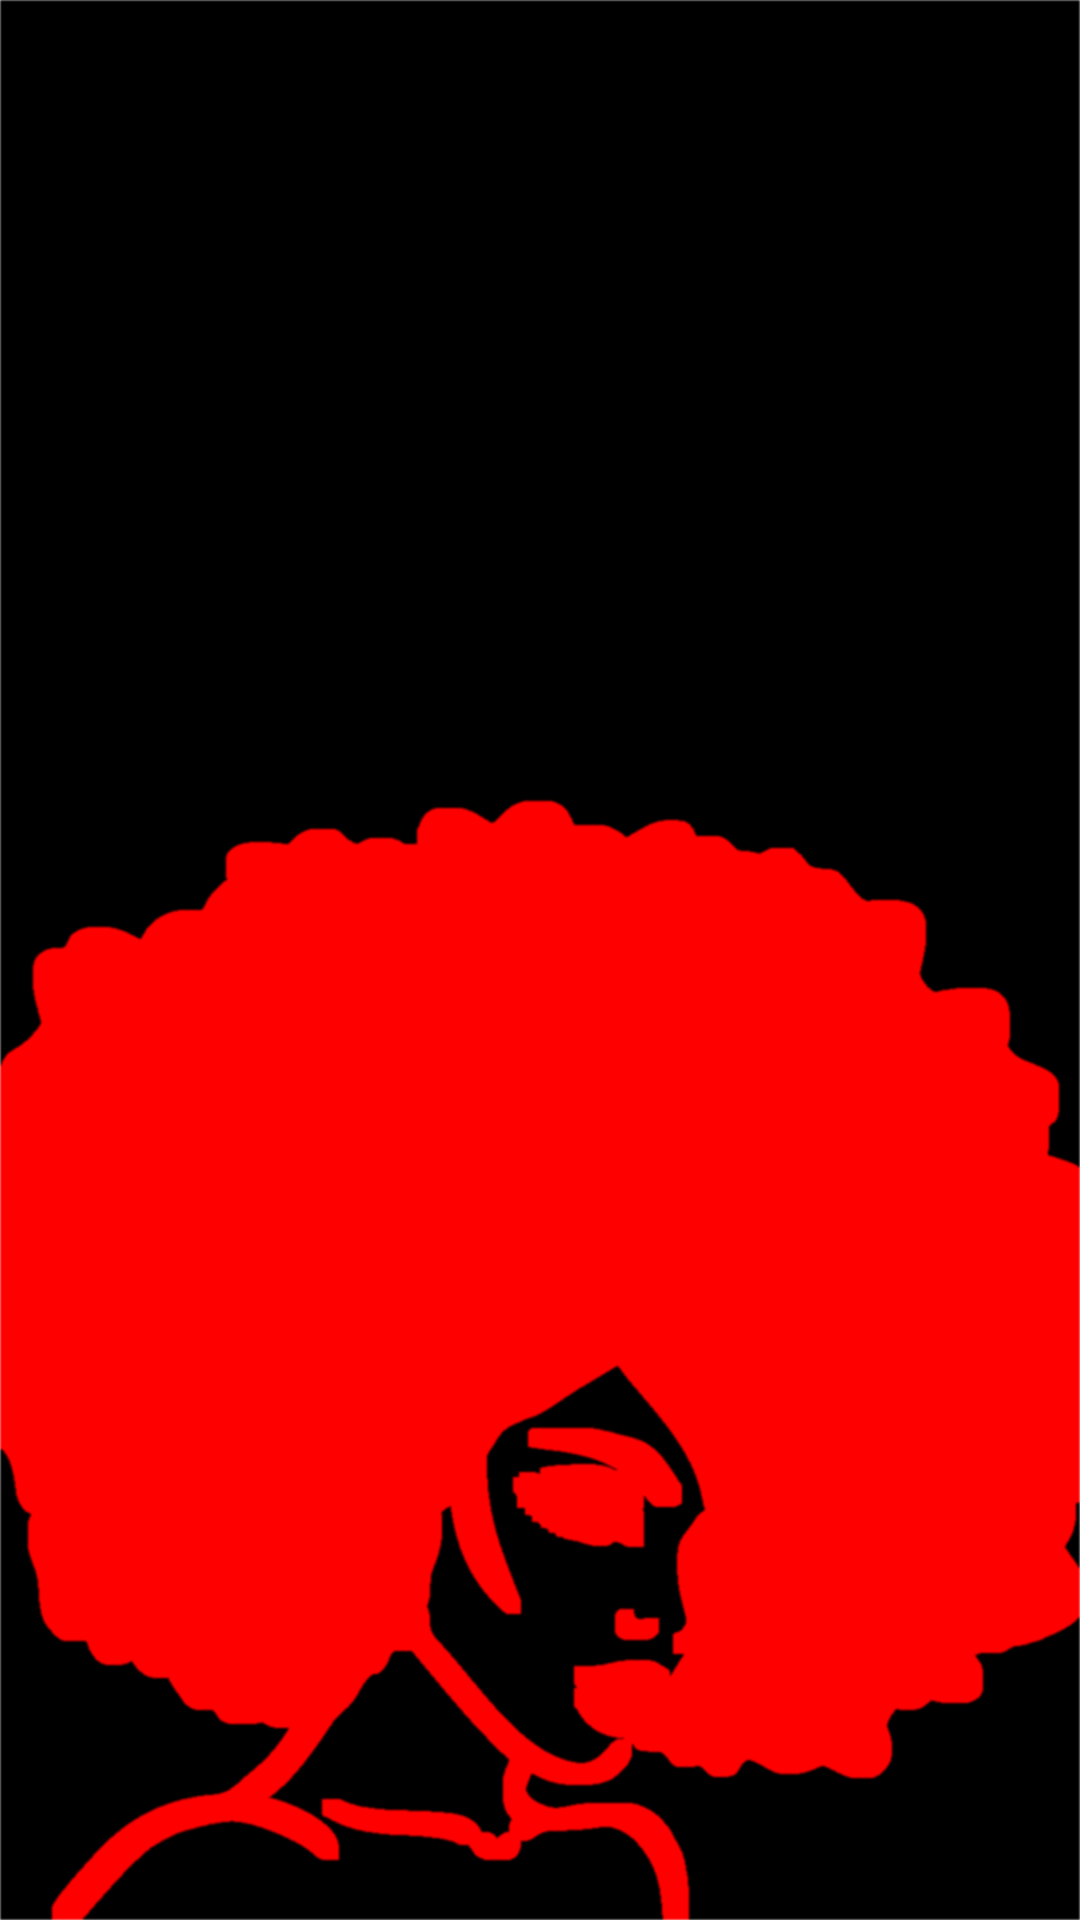
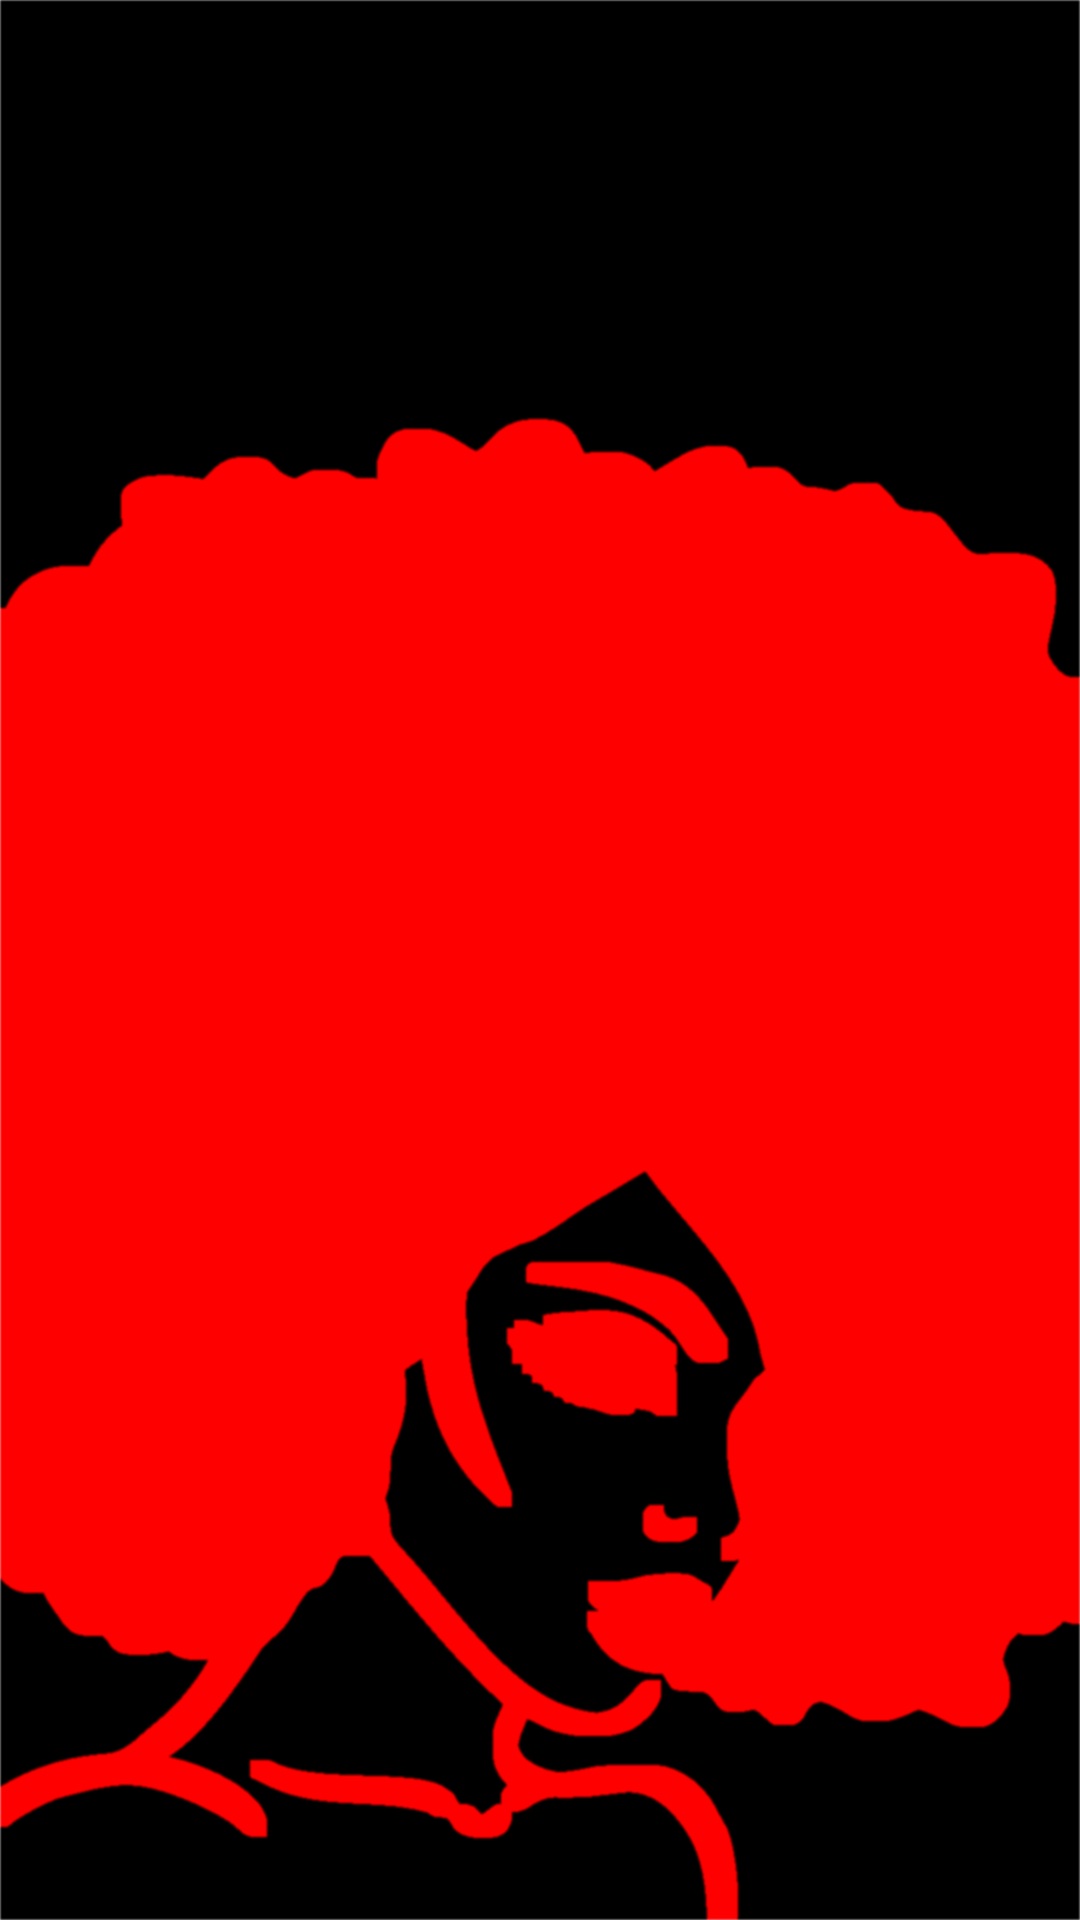
Silhouette trial: the drawn figure leads the row; the afro bigger; three drawn busts of our own (locs, profile, hood)

diff --git a/creative/src/window-deal.ts b/creative/src/window-deal.ts
@@ -35,12 +35,11 @@ export function dealWindow(seed: string): WindowCard[] {
 export function dealSilhouette(seed: string, moodTypes: readonly TypeStyleId[]): WindowCard[] {
   const faces = order(WINDOW_FACES, `${seed}:faces`, face => face);
   const [men, women, drawn] = ['man-', 'woman-', 'art-'].map(kind => order(SILHOUETTE_IDS.filter(id => id.startsWith(kind)), `${seed}:figures`, id => id));
-  const manFirst = hashPick(seed, 'figure', 2) === 0;
   const types = order(SILHOUETTE_TYPES.filter(type => moodTypes.includes(type)), `${seed}:types`, type => type);
   const first = hashPick(seed, 'screen', SILHOUETTE_SCREENS.length);
   return Array.from({ length: CARDS }, (_, index) => {
-    // On trial: the row's second woman is one of the drawn figures, on pink.
-    const shape = (index % 2 === 0) === manFirst ? men[index >> 1] : index >> 1 ? drawn[0] : women[0];
+    // On trial: the shelf's lead card is one of the drawn figures, on pink; then a man, a woman and a man.
+    const shape = index === 0 ? drawn[0] : index % 2 ? men[index >> 1] : women[0];
     const palette = isDrawnFigure(shape) ? DRAWN_SCREEN : SILHOUETTE_SCREENS[(first + index) % SILHOUETTE_SCREENS.length];
     return { mode: 'silhouette', palette, allowed: [palette], font: faces[index], shape, type: types[index % types.length] };
   });

diff --git a/creative/src/silhouette.ts b/creative/src/silhouette.ts
@@ -18,7 +18,10 @@ export const SILHOUETTES = [
   { id: 'man-head', headAt: 0.267 },
   // Drawn figures, on trial: the video plays in the drawing's black, its accent ink (red nails) stays, the rest is the screen.
   { id: 'art-embrace', headAt: 0.2 },
-  { id: 'art-afro', headAt: 0.417 },
+  { id: 'art-afro', headAt: 0.218 },
+  { id: 'art-locs', headAt: 0.321 },
+  { id: 'art-profile', headAt: 0.237 },
+  { id: 'art-hood', headAt: 0.257 },
 ] as const;
 
 export const SILHOUETTE_IDS: readonly string[] = SILHOUETTES.map(figure => figure.id);

diff --git a/audio-intelligence/modal_creatives_encode_staging.py b/audio-intelligence/modal_creatives_encode_staging.py
@@ -95,7 +95,7 @@ WINDOW_FACES = {"Anton", "Big Shoulders Display", "Staatliches", "Bangers", "Bar
 WINDOW_MODES = {"plain", "silhouette"}
 WINDOW_SCREENS = {"plain": {"black", "off-white", "plum"}, "silhouette": {"red", "black", "off-white", "plum", "pink"}}
 # The figures of creative/public/silhouettes (creative/src/silhouette.ts).
-WINDOW_SHAPES = {"man-cap", "woman-hair", "man-wide", "woman-wide", "woman-curls", "man-hood", "woman-head", "man-head", "art-embrace", "art-afro"}
+WINDOW_SHAPES = {"man-cap", "woman-hair", "man-wide", "woman-wide", "woman-curls", "man-hood", "woman-head", "man-head", "art-embrace", "art-afro", "art-locs", "art-profile", "art-hood"}
 WINDOW_KEYS = ("windowMode", "windowPalette", "windowAllowed")
 # Lyric type styles and display fonts the page knows (creative/src/pack-type.ts, font-catalog.ts; a test keeps these in step).
 TYPE_STYLES = {
